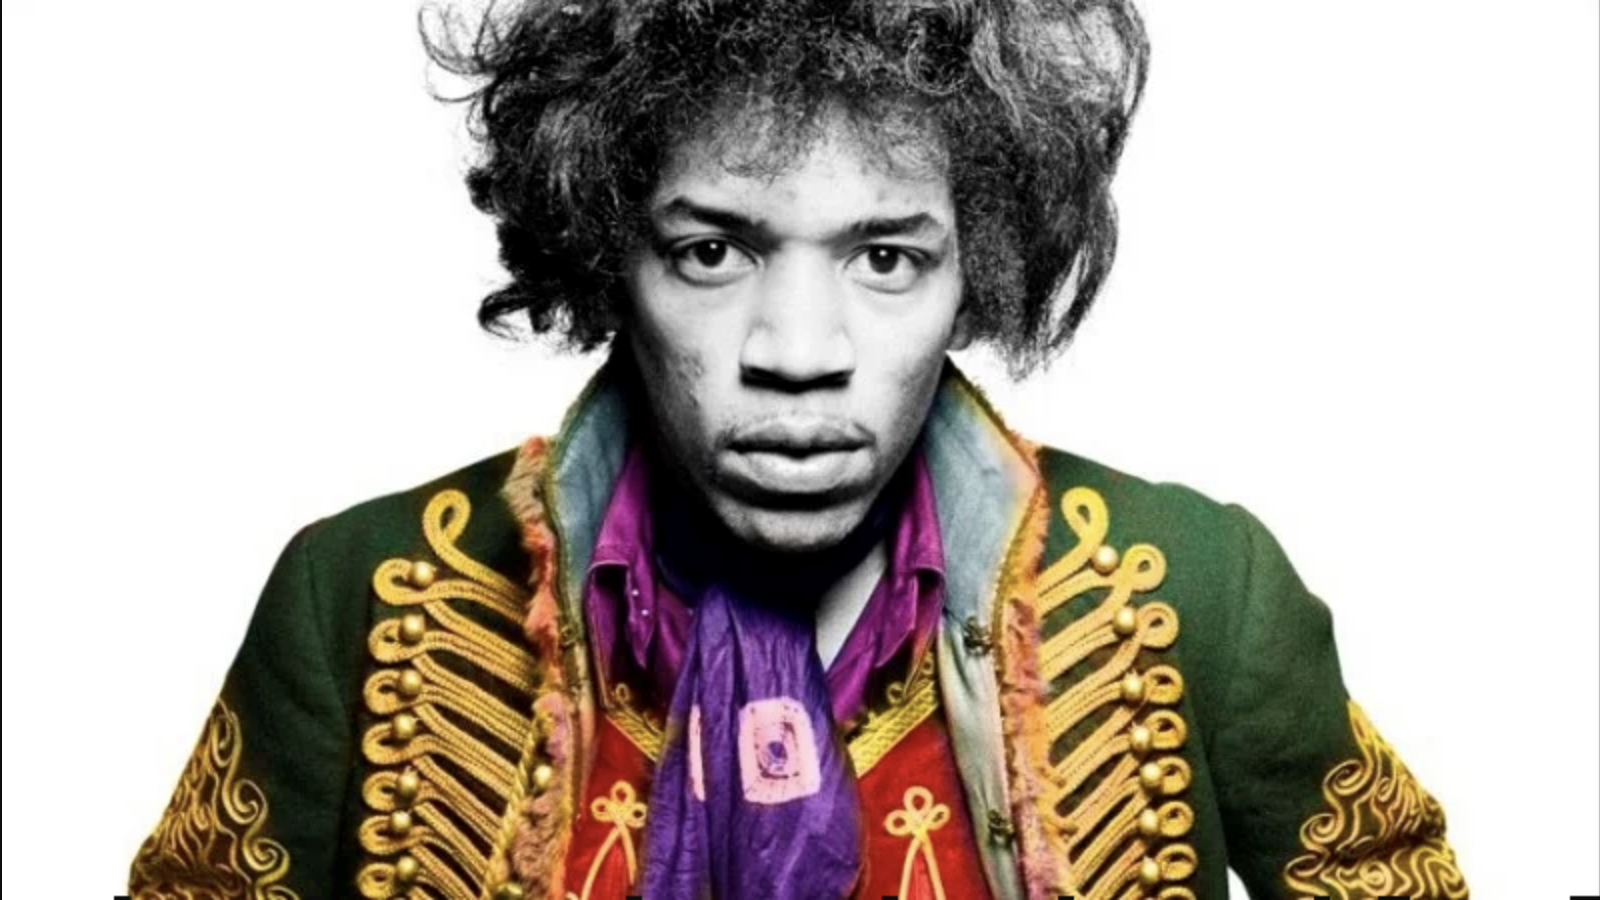
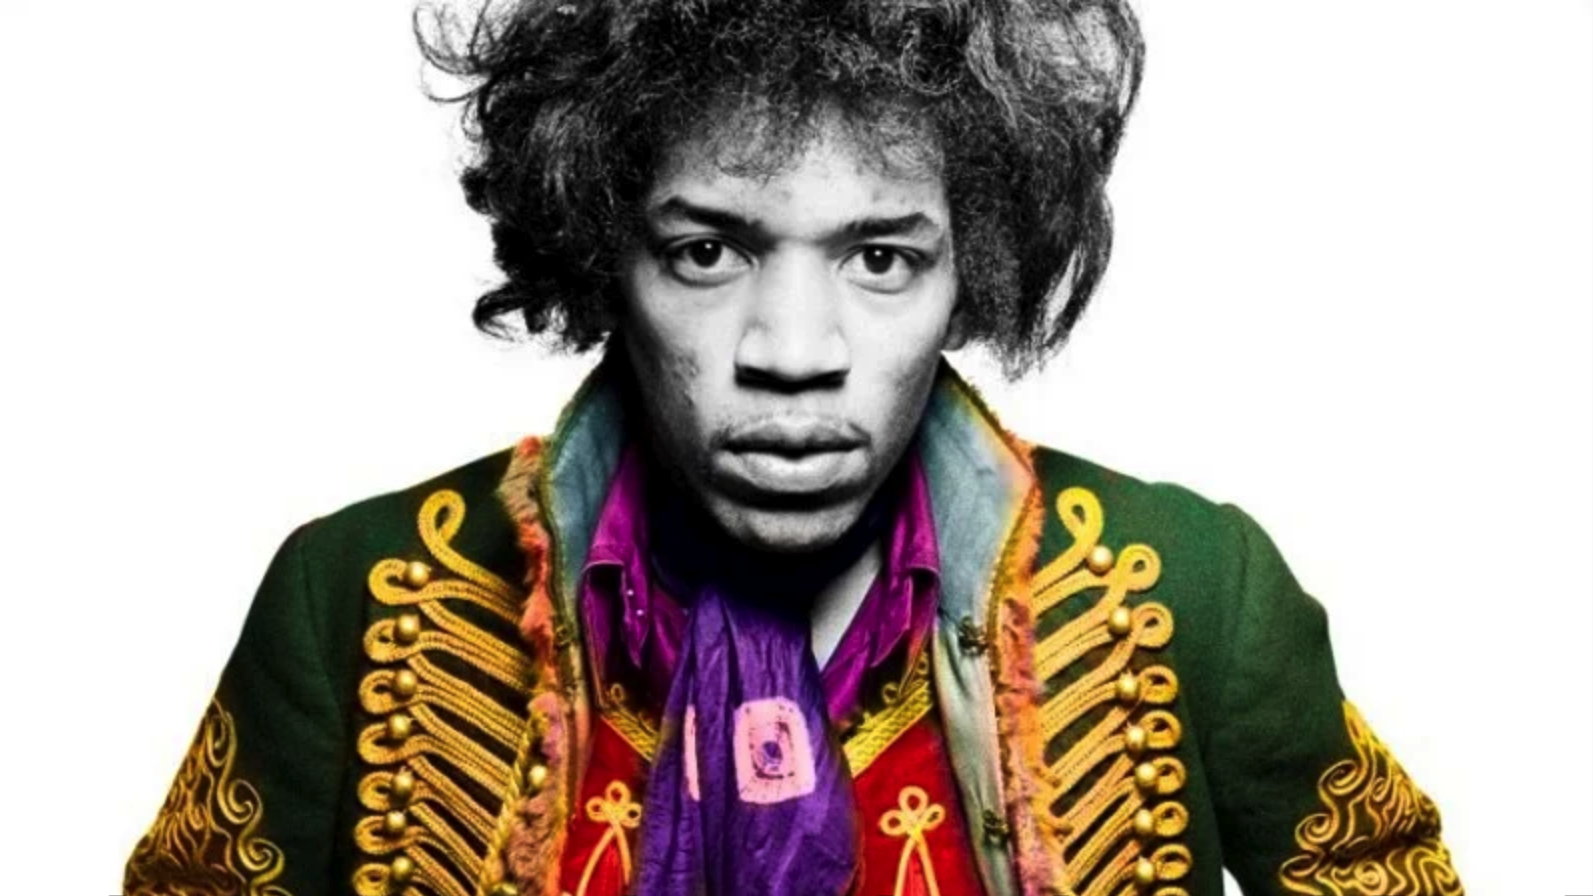
Reorg sections

diff --git a/index.html b/index.html
@@ -27,13 +27,13 @@
     <div class="collapse navbar-collapse" id="navbarSupportedContent">
       <ul class="navbar-nav ml-auto">
         <li class="nav-item">
-          <a class="nav-link" href="#">Bio<span class="sr-only">(current)</span></a>
+          <a class="nav-link" href="#bio-section">Bio</a>
         </li>
         <li class="nav-item">
-          <a class="nav-link" href="#">What They Say</a>
+          <a class="nav-link" href="#they-say-section">What They Say</a>
         </li>
         <li class="nav-item">
-          <a class="nav-link" href="#">Videos</a>
+          <a class="nav-link" href="#videos-section">Videos</a>
         </li>
     </div>
     </li>
@@ -48,7 +48,10 @@
   <div id="carouselExampleFade" class="carousel slide carousel-fade" data-ride="carousel">
     <div class="carousel-inner">
       <div class="carousel-item active">
-        <img src="Images/1 Hendrix Experience.png" class="d-block w-100" alt="JH Experience">
+        <img src="Images/JH Color.png" class="d-block w-100" alt="JH Experience">
+      </div>
+      <div class="carousel-item">
+        <img src="Images/1 Hendrix Experience.png" class="d-block w-100 " alt="JH Experience">
       </div>
       <div class="carousel-item">
         <img src="Images/2 Jimi in thought.jpg" class="d-block w-100" alt="JH In Thought">
@@ -74,106 +77,119 @@
   </div>
 
   <!-- Bio -->
-  <div class="card">
-    <div class="card-body">
+  <div id="bio-section">
+    <h4>Biography</h4>
+    <div class="card">
+      <div class="card-body">Born in 1942, in Seattle, Washington, Jimi Hendrix learned to play guitar as a teenager and
+        grew up to become
+        a rock legend who excited audiences in the 1960s with his innovative electric guitar playing. One of his most
+        memorable performances was at Woodstock in 1969, where he performed "The Star Spangled Banner." Hendrix died
+        in 1970 from drug-related complications, leaving his mark on the world of rock music and remaining popular to
+        this day.</div>
+    </div>
+
+    <div class="bio-no-show d-none d-md-block">
+      <h4>Early Years</h4>
       <div class="card">
-        <div class="card-body">
-          <span id="Bio-header">Jimi Hendrix Biography</span><br>
-          Born in 1942, in Seattle, Washington, Jimi Hendrix learned to play guitar as a teenager and grew up to become
-          a rock legend who excited audiences in the 1960s with his innovative electric guitar playing. One of his most
-          memorable performances was at Woodstock in 1969, where he performed "The Star Spangled Banner." Hendrix died
-          in 1970 from drug-related complications, leaving his mark on the world of rock music and remaining popular to
-          this day.<br>
-
-          <div class="Mobile-Noshow d-none d-md-block">
-            <br><span id="Bio-header">Early Years</span><br>
-            Jimi Hendrix was born Johnny Allen Hendrix (later changed by his father to James Marshall) on November 27,
-            1942, in Seattle, Washington. He had a difficult childhood, sometimes living in the care of relatives or
-            acquaintances.
-            His mother, Lucille, was only 17 years old when Hendrix was born. She had a stormy relationship with his
-            father, Al, and eventually left the family after the couple had two more children together, sons Leon and
-            Joseph. Hendrix would only see his mother sporadically before her death in 1958.<br>
-
-            <br><span id="Bio-header">Jimi Hendrix Guitar</span><br>
-            In many ways, music became a sanctuary for Hendrix. He was a fan of blues and rock and roll, and with his
-            father's encouragement taught himself to play guitar.
-            When Hendrix was 16, his father bought him his first acoustic guitar, and the next year his first electric
-            guitar—a right-handed Supro Ozark that the natural lefty had to flip upside down to play. Shortly
-            thereafter,
-            he began performing with his band, the Rocking Kings. In 1959, he dropped out of high school and worked odd
-            jobs while continuing to follow his musical aspirations.
-            In 1961, Hendrix followed in his father's footsteps by enlisting in the United States Army. While training
-            as
-            a paratrooper, Hendrix still found time for music, forming a band named the King Kasuals. Hendrix served in
-            the army until 1962, when he was honorably discharged after injuring himself during a parachute jump.
-            After leaving the military, Hendrix began working under the name Jimmy James as a session musician, playing
-            backup for such performers as Little Richard, B.B. King, Sam Cooke and the Isley Brothers. In 1965 he also
-            formed a group of his own called Jimmy James and the Blue Flames, which played gigs around New York City's
-            Greenwich Village neighborhood.<br>
-
-            <br><span id="Bio-header">Jimi Hendrix Experience</span><br>
-            In mid-1966, Hendrix met Chas Chandler—bass player of British rock group the Animals—who signed an agreement
-            with Hendrix to become his manager. Chandler convinced Hendrix to go to London, where he joined forces with
-            bassist Noel Redding and drummer Mitch Mitchell to form the Jimi Hendrix Experience.
-            While performing in England, Hendrix built up quite a following among the country's rock royalty, with the
-            Beatles, the Rolling Stones, the Who and Eric Clapton all becoming great admirers of his work. One critic
-            for
-            the British music magazine Melody Maker said that he "had great stage presence" and looked at times as if he
-            were playing "with no hands at all."<br>
-
-            <br><span id="Bio-header">Jimi Hendrix Hey Joe</span><br>
-            Released in 1967, the Jimi Hendrix Experience's first single, "Hey Joe," was an instant smash in Britain and
-            was soon followed by hits such as "Purple Haze" and "The Wind Cries Mary."
-            On tour to support his first album, Are You Experienced? (1967), Hendrix delighted audiences with his
-            outrageous guitar playing skills and his innovative, experimental sound. In June 1967 he also won over
-            American music fans with his stunning performance at the Monterey Pop Festival, which ended with Hendrix
-            lighting his guitar on fire.<br>
-
-            <br><span id="Bio-header">Electric Ladyland</span><br>
-            Quickly becoming a rock superstar, later that year Hendrix scored again with his second album, Axis: Bold as
-            Love (1967).
-            His final album as part of the Jimi Hendrix Experience, Electric Ladyland (1968), featured the hit "All
-            Along
-            the Watchtower," which was written by Bob Dylan. The band continued to tour until it split up in 1969.<br>
-
-            <br><span id="Bio-header">Star-Spangled Banner</span><br>
-            In 1969, Hendrix performed at another legendary musical event: the Woodstock Festival.
-            Hendrix, the last performer to appear in the three-day-plus festival, opened his set with a rock rendition
-            of
-            "The Star-Spangled Banner" that amazed the crowds and demonstrated his considerable talents as a musician.
-            Also an accomplished songwriter and producer by this time, Hendrix had his own recording studio, Electric
-            Lady, in which he worked with different performers to try out new songs and sounds.
-            In late 1969, Hendrix put together a new group, forming Band of Gypsys with his army buddy Billy Cox and
-            drummer Buddy Miles. The band never really took off, however, and Hendrix began working on a new album
-            tentatively named First Rays of the New Rising Sun, with Cox and Mitch Mitchell. Sadly, Hendrix would not
-            live
-            to complete the project.<br>
-
-            <br><span id="Bio-header">How Did Jimi Hendrix Die?</span><br>
-            Jimi Hendrix died in London from drug-related complications on September 18, 1970, at the age of 27. He left
-            an indelible mark on the world of rock music and remains popular to this day.
-            As one journalist wrote in the Berkeley Tribe, "Jimi Hendrix could get more out of an electric guitar than
-            anyone else. He was the ultimate guitar player."<br>
-          </div>
+        <div class="card-body">Hendrix was born Johnny Allen Hendrix (later changed by his father to James Marshall) on
+          November 27,
+          1942, in Seattle, Washington. He had a difficult childhood, sometimes living in the care of relatives or
+          acquaintances. His mother, Lucille, was only 17 years old when Hendrix was born. She had a stormy relationship
+          with his
+          father, Al, and eventually left the family after the couple had two more children together, sons Leon and
+          Joseph. Hendrix would only see his mother sporadically before her death in 1958.</div>
+      </div>
+      <h4>Guitar</h4>
+      <div class="card">
+        <div class="card-body">In many ways, music became a sanctuary for Hendrix. He was a fan of blues and rock and
+          roll, and with his
+          father's encouragement taught himself to play guitar.
+          When Hendrix was 16, his father bought him his first acoustic guitar, and the next year his first electric
+          guitar—a right-handed Supro Ozark that the natural lefty had to flip upside down to play. Shortly
+          thereafter, he began performing with his band, the Rocking Kings. In 1959, he dropped out of high school and
+          worked odd
+          jobs while continuing to follow his musical aspirations. In 1961, Hendrix followed in his father's footsteps
+          by enlisting in the United States Army. While training
+          as a paratrooper, Hendrix still found time for music, forming a band named the King Kasuals. Hendrix served
+          in
+          the army until 1962, when he was honorably discharged after injuring himself during a parachute jump.
+          After leaving the military, Hendrix began working under the name Jimmy James as a session musician, playing
+          backup for such performers as Little Richard, B.B. King, Sam Cooke and the Isley Brothers. In 1965 he also
+          formed a group of his own called Jimmy James and the Blue Flames, which played gigs around New York City's
+          Greenwich Village neighborhood.</div>
+      </div>
+      <h4>Jimi Hendrix Experience</h4>
+      <div class="card">
+        <div class="card-body">In mid-1966, Hendrix met Chas Chandler—bass player of British rock group the Animals—who
+          signed an
+          agreement
+          with Hendrix to become his manager. Chandler convinced Hendrix to go to London, where he joined forces with
+          bassist Noel Redding and drummer Mitch Mitchell to form the Jimi Hendrix Experience.
+          While performing in England, Hendrix built up quite a following among the country's rock royalty, with the
+          Beatles, the Rolling Stones, the Who and Eric Clapton all becoming great admirers of his work. One critic
+          for the British music magazine Melody Maker said that he "had great stage presence" and looked at times as
+          if he
+          were playing "with no hands at all."</div>
+      </div>
+      <h4>Jimi Hendrix Hey Joe</h4>
+      <div class="card">
+        <div class="card-body">Released in 1967, the Jimi Hendrix Experience's first single, "Hey Joe," was an instant
+          smash in Britain
+          and
+          was soon followed by hits such as "Purple Haze" and "The Wind Cries Mary."
+          On tour to support his first album, Are You Experienced? (1967), Hendrix delighted audiences with his
+          outrageous guitar playing skills and his innovative, experimental sound. In June 1967 he also won over
+          American music fans with his stunning performance at the Monterey Pop Festival, which ended with Hendrix
+          lighting his guitar on fire.</div>
+      </div>
+      <h4>Electric Ladyland</h4>
+      <div class="card">
+        <div class="card-body">Quickly becoming a rock superstar, later that year Hendrix scored again with his second
+          album, Axis: Bold
+          as
+          Love (1967). His final album as part of the Jimi Hendrix Experience, Electric Ladyland (1968), featured the
+          hit "All
+          Along the Watchtower," which was written by Bob Dylan. The band continued to tour until it split up in 1969.
         </div>
+      </div>
+      <h4>Star-Spangled Banner</h4>
+      <div class="card">
+        <div class="card-body">In 1969, Hendrix performed at another legendary musical event: the Woodstock Festival.
+          Hendrix, the last performer to appear in the three-day-plus festival, opened his set with a rock rendition
+          of "The Star-Spangled Banner" that amazed the crowds and demonstrated his considerable talents as a
+          musician.
+          Also an accomplished songwriter and producer by this time, Hendrix had his own recording studio, Electric
+          Lady, in which he worked with different performers to try out new songs and sounds.
+          In late 1969, Hendrix put together a new group, forming Band of Gypsys with his army buddy Billy Cox and
+          drummer Buddy Miles. The band never really took off, however, and Hendrix began working on a new album
+          tentatively named First Rays of the New Rising Sun, with Cox and Mitch Mitchell. Sadly, Hendrix would not
+          live to complete the project.</div>
+      </div>
+      <h4>How Did Jimi Hendrix Die?</h4>
+      <div class="card">
+        <div class="card-body">Hendrix died in London from drug-related complications on September 18, 1970, at the age
+          of 27. He left
+          an indelible mark on the world of rock music and remains popular to this day.
+          As one journalist wrote in the Berkeley Tribe, "Jimi Hendrix could get more out of an electric guitar than
+          anyone else. He was the ultimate guitar player."</div>
       </div>
     </div>
   </div>
 
-  <!-- Artist with strong Hendrix Influences -->
+  <!-- What other artists say about Hendrix -->
 
-  <H2 class="card">What they say about Jimi Hendrix</H2>
+  <H2 id="they-say-section">What they say about Jimi Hendrix</H2>
 
   <div class="card-columns">
-    <div class="card">
-      <img src="Images/SRV.jpg" class="card-img-top d-none d-md-block" alt="SRV">
-      <div class="card-body">
-        <h5 class="card-title">Stevie Ray Vaugn</h5>
-        <p class="card-text">There’s only one Jimi Hendrix and there’ll never be another one. I just do my best… to
+    <div class="card d-none d-md-block">
+      <img src="Images/SRV.jpg" class="card-img-top" alt="SRV">
+      <div class="card-body d-none d-md-block">
+        <h5 class="card-title text-center">Stevie Ray Vaugn</h5>
+        <p class="card-text ">There’s only one Jimi Hendrix and there’ll never be another one. I just do my best… to
           carry his music on.</p>
       </div>
     </div>
-    <div class="card p-3">
+    <div class="card">
       <blockquote class="blockquote mb-0 card-body">
         <p>"It overwhelmed me, really. He had such talent, he could find things inside a song and vigorously develop
           them. He found things that other people wouldn't think of finding in there. He probably improved upon it by
@@ -186,13 +202,12 @@
         </footer>
       </blockquote>
     </div>
-    <div class="card">
-      <img src="Images/Eric Gales.jpg" class="card-img-top d-none d-md-block" alt="Eric Gales">
+    <div class="card d-none d-md-block">
+      <img src="Images/Eric Gales.jpg" class="card-img-top" alt="Eric Gales">
       <div class="card-body">
-        <h5 class="card-title">Eric Gales</h5>
+        <h5 class="card-title text-center">Eric Gales</h5>
         <p class="card-text">Man, to have my name in the same sentence as somebody like Jimi Hendrix is the highest
           compliment that I could ever get.</p>
-
       </div>
     </div>
     <div class="card bg-primary text-white text-center p-3">
@@ -209,62 +224,57 @@
     </div>
     <div class="card text-center">
       <div class="card-body">
-        <h5 class="card-title">John Frusciante (former Red Hot Chili Pepper)</h5>
-        <p class="card-text">I'm an Electric Ladyland guy. His music always sounds perfect to me, because he's bending
+        <p>I'm an Electric Ladyland guy. His music always sounds perfect to me, because he's bending
           sound, taking care of music in every dimension. Where most people think of it in two dimensions, he's thinking
           of it in four. I don't think there's a better guitar player in history. He's not something that can be
           improved on. And there's the spirit that goes into it. He creates a place where you can be high and hang out
           and lose yourself. He's bringing out aspects of sound we didn't know were there. I feel there are people
           moving ahead on that front, but they're not so much guitar players — like [electronic artists] Aphex Twin and
           Squarepusher. They continue the work Jimi Hendrix started, but not on the guitar."</p>
-
+        <footer class="blockquote-footer">
+          <small class="text-muted">
+            John Frusciante (former Red Hot Chili Pepper)
+          </small>
+        </footer>
       </div>
     </div>
-    <div class="card">
-      <img src="Images/Philip Sayce.jpg" class="card-img-top d-none d-md-block" alt="Philip Sayce">
+
+    <div class="card d-none d-md-block">
+      <img src="Images/Philip Sayce.jpg" class="card-img-top" alt="Philip Sayce">
     </div>
-    <div class="card p-3 text-right">
-      <blockquote class="blockquote mb-0">
-        <h5 class="card-title">Philip Sayce</h5>
-        <footer class="blockquote-footer">
-          <p class="card-text">
-            "I think I might have come to Hendrix through Stevie, but I mean I was definitely into Hendrix - how can you
-            play guitar and not be influenced by the language Hendrix wrote? He created a language for the instrument.
-            Anybody that came after him - they're speaking part of his language."</p>
-        </footer>
-      </blockquote>
+    <div class="card p-3 d-none d-md-block">
+      <h5 class="card-title text-center">Philip Sayce</h5>
+      <p class="card-text">
+        "I think I might have come to Hendrix through Stevie, but I mean I was definitely into Hendrix - how can you
+        play guitar and not be influenced by the language Hendrix wrote? He created a language for the instrument.
+        Anybody that came after him - they're speaking part of his language."</p>
     </div>
   </div>
 
   <!-- Electric Church Documentary-->
-  <div class="embed-responsive embed-responsive-16by9">
+  <div id=videos-section class="embed-responsive embed-responsive-16by9">
     <iframe src="https://player.vimeo.com/video/311490783" width="640" height="360" frameborder="0"
       allow="autoplay; fullscreen" allowfullscreen></iframe>
     <p><a href="https://vimeo.com/311490783"></a>
       <a href="https://vimeo.com/abramorama"></a><a href="https://vimeo.com"></a></p>
   </div>
 
-  <!-- Text about video -->
+  <!-- Text about EC -->
   <div class="card">
     <div class="card-body">
-      <div class="card">
-        <div class="card-body">
           ELECTRIC CHURCH tells the story of the Jimi Hendrix Experience’s involvement as the headliner of the Second
           Atlanta International Pop Festival, then hailed as the ‘Southern Woodstock'.
           Jimi Hendrix was the critical component he needed to elevate the three day festival to a major cultural event.
           ELECTRIC CHURCH features interviews with Hendrix’s Experience band mates Billy Cox and the late Mitch Mitchell
           as well as Paul McCartney, Steve Winwood, Rich Robinson, Kirk Hammett, Derek Trucks, Susan Tedeschi, and many
-          others.
-          His performance at the Second Atlanta International Pop Festival was not only significant on a musical level,
+          others. His performance at the Second Atlanta International Pop Festival was not only significant on a musical
+          level,
           but also in terms of socio-political dynamics. It was assumed that rural audiences would not take kindly to
           “long-hair” bands, and that black and white artists could not comfortably exist on the same bill; Atlanta Pop
-          set out to challenge those beliefs.
-          Hendrix’s music and message of universal love made him the ideal artist and, appropriately, was the first act
-          booked for the festival. Footage has remained largely unseen until now.
+          set out to challenge those beliefs.Hendrix’s music and message of universal love made him the ideal artist
+          and, appropriately, was the first act booked for the festival. Footage has remained largely unseen until now.
         </div>
       </div>
-    </div>
-  </div>
 
   <!-- Scroll To Top Button -->
   <button onclick="topFunction()" id="myBtn" title="Go to top">Top</button>

diff --git a/CSS/style.css b/CSS/style.css
@@ -8,16 +8,16 @@ body {
     width: 40px;
     border-radius: 10px;
 }
+
+/* Are you experienced... */
 .navbar-brand {
-    position: relative;;
+    position: relative;
     font-size: 15px;
     text-justify: center;
-}
-
-.navbar-text {
     margin-left:20px;
 }
 
+/* Navlink texts */
 #navlinks li:hover {
     background-color: none;
     color: white;
@@ -39,16 +39,24 @@ body {
     margin: 30px;
 }
 
-/* Bio & Video Text */
-.card {
+/* Bio */
+#bio-section {
     text-align: center;
-    margin: 20px auto;
+    margin: 50px auto;
 }
 
-#Bio-header {
+#h4 {
     font-weight: bolder;
-    font-size: 25px;
 }
+
+#they-say-section {
+    text-justify: center;
+}
+.card {
+    margin-left: 30px;
+    margin-right:30px;
+}
+
 .vp-shade vp-shade-invisible {    
     top: 0;
     bottom: 0;
